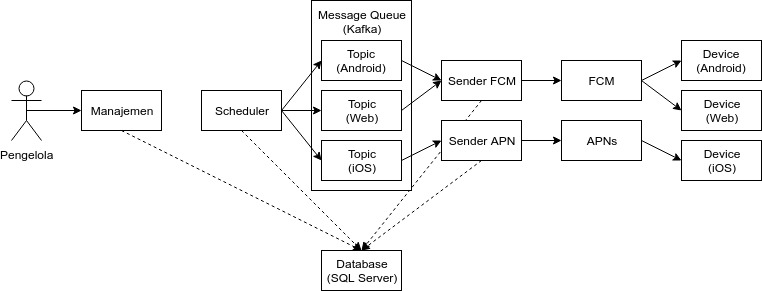
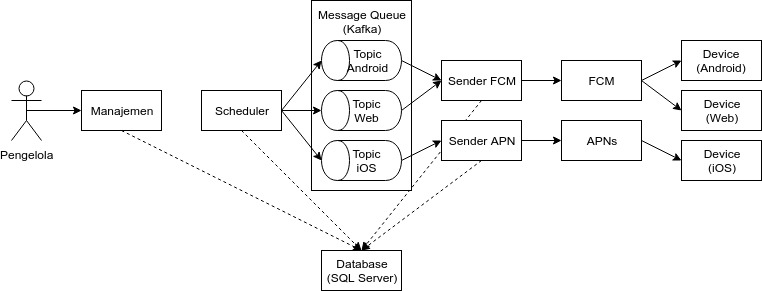
Rancangan kafka

diff --git a/buku/bab3/bab3.tex b/buku/bab3/bab3.tex
@@ -228,22 +228,22 @@ Analisis yang dilakukan meliputi analisis permasalahan, deskripsi umum sistem, d
 \par Subbab ini akan membahas tahapan perancangan sistem yang dibagi menjadi beberapa bagian, yaitu perancangan
 arsitektur, data, dan proses.
 
-\subsection{Perancangan Arsitektur}
+\subsection{Perancangan Arsitektur} \label{s:perancangan_arsitektur}
 \par Aplikasi \textit{push notification} terpusat akan dibagi menjadi 3 modul, yaitu Scheduler,
 Sender APN, dan Sender FCM.
 Aplikasi dibangun dengan bahasa pemrograman Java, dengan kerangka kerja
 Spring.
 Aplikasi saling terhubung lewat Kafka dan SQL Server.
 Secara garis besar, aplikasi ini memiliki rancangan
-arsitektur pengiriman notifikasi yang dapat dilihat pada Gambar \ref{arsitektur_pengiriman_notifikasi}.
-\begin{figure}[hb]
+arsitektur yang dapat dilihat pada Gambar \ref{f:arsitektur_aplikasi}.
+\begin{figure}[H]
     \centering\includegraphics[width=1\textwidth]{bab3/figures/arsitektur_pengiriman_notifikasi.jpg}
     \caption{Arsitektur Pengiriman Notifikasi}
-    \label{arsitektur_pengiriman_notifikasi}
+    \label{f:arsitektur_aplikasi}
 \end{figure}
 
 \subsection{Perancangan Basis Data}
-\par Subbab ini membahas bagaimana rancangan basis data yang digunakan pada aplikasi \textit{push notification} terpusat. Basis data yang digunakan adalah SQL Server 2012.
+\par Subbab ini membahas bagaimana rancangan basis data yang digunakan pada aplikasi \textit{push notification} terpusat. Sistem basis data yang digunakan adalah SQL Server 2012.
 
 \subsubsection{Tabel User}
 \par Tabel user digunakan untuk menyimpan data pengguna aplikasi yang ada di Institut Teknologi Sepuluh Nopember. Rincian atribut dapat dilihat pada Tabel \ref{tabel_user}.
@@ -404,7 +404,7 @@ arsitektur pengiriman notifikasi yang dapat dilihat pada Gambar \ref{arsitektur_
     \label{tabel_batch}
 \end{longtable}
 
-\subsubsection{Tabel Packet}
+\subsubsection{Tabel Packet} \label{s:tabel_packet}
 \par Tabel packet digunakan untuk menyimpan data notifikasi yang dikirim ke satu perangkat. Rincian atribut dapat dilihat pada Tabel \ref{tabel_packet}.
 \begin{longtable}{|p{2cm}|p{2.5cm}|p{4.5cm}|}
     \hline
@@ -445,6 +445,23 @@ arsitektur pengiriman notifikasi yang dapat dilihat pada Gambar \ref{arsitektur_
     Update At & datetime & Tanggal dan waktu diperbarui \\ \hline
     \caption{Tabel Group Destination}
     \label{tabel_group_destination}
+\end{longtable}
+
+\subsection{Perancangan Antrian Pesan}
+\par Subbab ini membahas bagaimana rancangan antrian pesan yang akan digunakan. Sistem antrian pesan yang digunakan adalah Apache Kafka.
+
+\subsection{Perancangan Skema}
+\par Berdasarkan rancangan arsitektur pada Subbab \ref{s:perancangan_arsitektur}, Scheduler akan mengirimkan \textit{packet} ke Sender APN dan Sender FCM lewat antrian pesan. Pertukaran data \textit{packet} di antrian pesan akan menggunakan format JSON. Skema JSON dapat dilihat pada Kode Sumber \ref{json:packet}.
+\lstinputlisting[label=json:packet, caption=Skema JSON Packet, language=SQL] {bab3/json/packet.json}
+
+\subsection{Perancangan Topik}
+\par Berdasarkan rancangan arsitektur pada Subbab \ref{s:perancangan_arsitektur}, antrian \textit{packet} akan dipisah berdasarkan tipe perangkat penerima \textit{packet}. Rincian pembagian topik dapat dilihat pada Tabel \ref{t:pembagian_topik_antrian}.
+\begin{longtable}{|p{2cm}|p{2cm}|p{5cm}|}
+	\caption{Pembagian Topik Antrian} \label{t:pembagian_topik_antrian} \\ \hline
+	\textbf{Perangkat} & \textbf{Topik} & \textbf{Deskripsi} \\ \hline
+	Android & android & Berisi \textit{packet} untuk perangkat Android dengan format JSON. \\ \hline
+	Web & web & Berisi \textit{packet} untuk perangkat Web dengan format JSON. \\ \hline
+	iOS & ios & Berisi \textit{packet} untuk perangkat iOS dengan format JSON. \\ \hline
 \end{longtable}
 
 \subsection{Perancangan Proses}

diff --git a/buku/bab4/bab4.tex b/buku/bab4/bab4.tex
@@ -135,7 +135,7 @@
     \label{tabel_pn_group_destination}
 \end{figure}
 
-\section{Implementasi Message Queue}
+\section{Implementasi Antrian Pesan}
 %TODO
 
 \subsection{Implementasi Kafka}
@@ -144,12 +144,11 @@
 \subsection{Implementasi Zookeeper}
 %TODO
 
-%TODO kopas kodingan
 \section{Implementasi Proses dan Kasus Penggunaan}
 \par Subbab ini membahas implementasi proses yang dibuat berdasarkan hasil analisa dan rancangan yang telah dilakukan.
 
 \subsection{Implementasi Pembuatan Packet}
-\par Proses pembuatan \textit{packet} dilakukan secara berkala oleh modul Scheduler setiap 30 detik. \textit{Packet} yang telah dibuat akan disimpan ke SQL Server. Hasil implementasi dapat dilihat pada Kode Sumber \ref{code:pembuatan_packet}.
+\par Proses pembuatan \textit{packet} dilakukan secara berkala oleh modul Scheduler setiap 30 detik. \textit{Packet} yang telah dibuat akan disimpan di sistem basis data (SQL Server). Hasil implementasi dapat dilihat pada Kode Sumber \ref{code:pembuatan_packet}.
 \lstinputlisting[label=code:pembuatan_packet, caption=Implementasi Pembuatan Packet, language=Java] {bab4/codes/pembuatan_packet.java}
 
 \subsubsection{Implementasi Menambahkan Packet ke Antrian}
